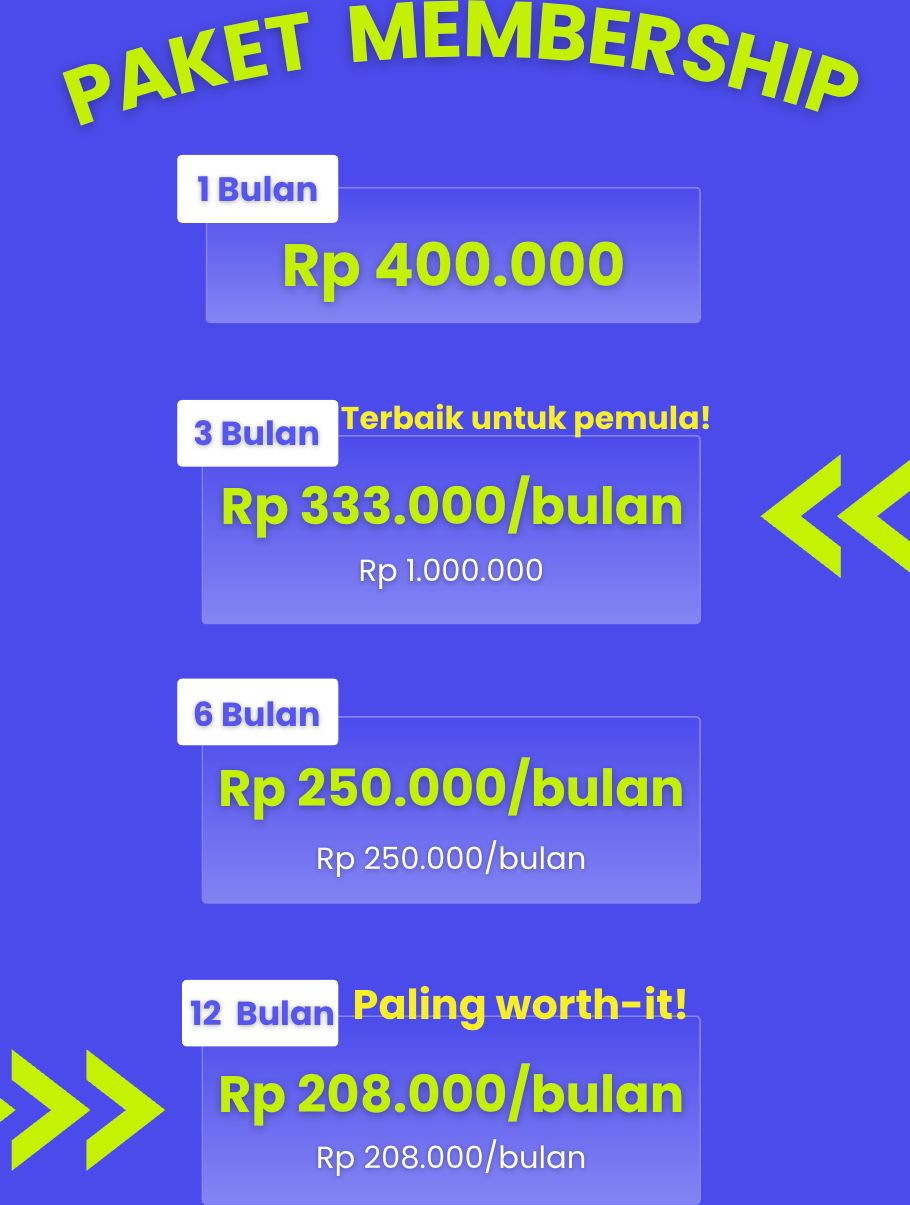
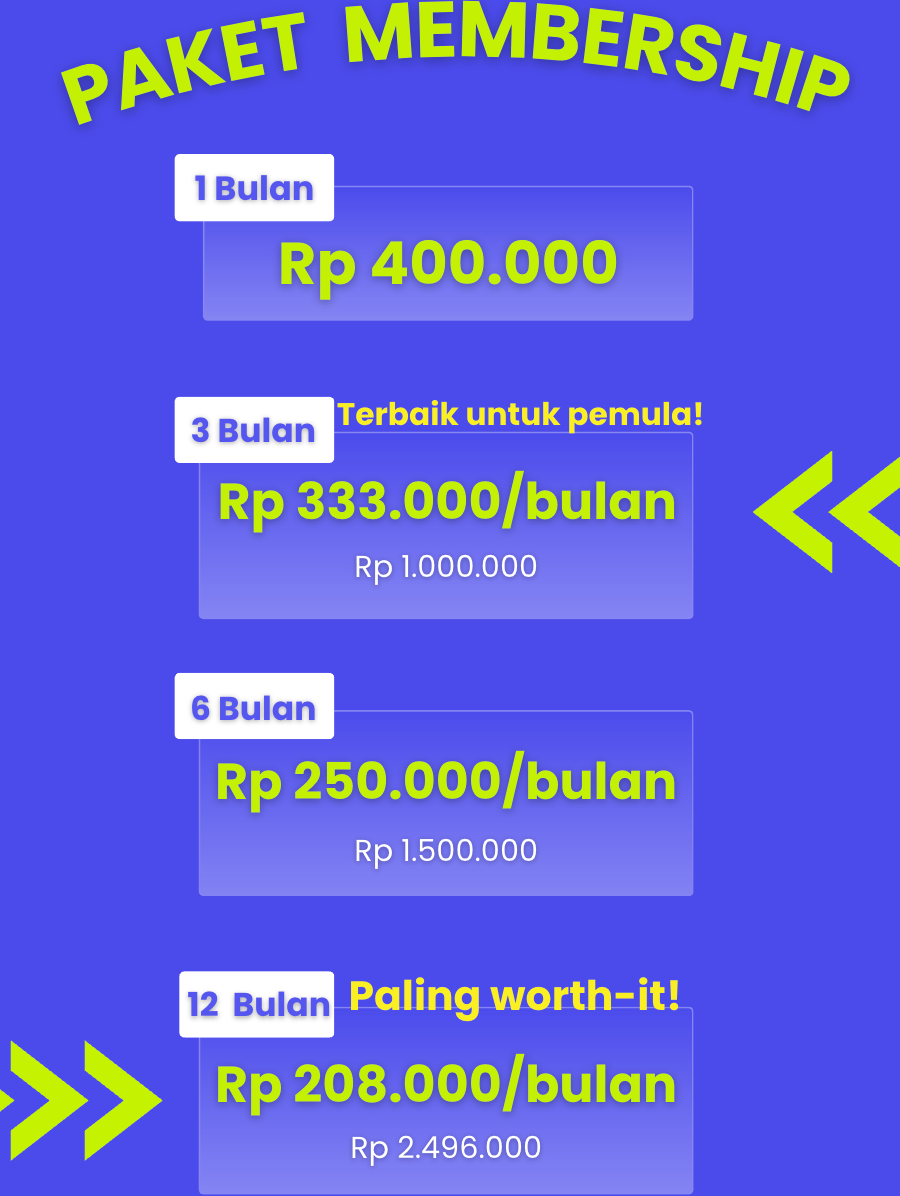
v36 hide original membership price

diff --git a/templates/home.html b/templates/home.html
@@ -41,7 +41,7 @@
             </div>
         </section>
 
-        <!-- Presale Section -->
+        <!-- Presale Section
         <section id="presale" class="feature-section" style="min-height: 75vh; padding-top: 0; padding-bottom: 0; text-align: center; color: white; position: relative; overflow: hidden; margin-bottom: 50px;">
             <img src="{% static 'images/presale.jpg' %}" alt="Pre-Sale" class="full-width-img" style="margin: 10px auto 20px; border: 2px solid #ffffff; box-shadow: 0 4px 8px #9393ee; max-width: 95%;">
             <div class="d-flex justify-content-center">
@@ -52,7 +52,7 @@
                 <span style="font-weight: bold;">Tanya-tanya gratis</span>
               </a>
             </div>
-        </section>
+        </section> -->
 
         <!-- Kenapa Mulai Gym Section -->
         <section id="kenapa-mulai" class="feature-section" style="min-height: 100vh; padding-top: 25px; padding-bottom: 0; text-align: center; color: white; position: relative; overflow: hidden;">
@@ -80,7 +80,18 @@
         </section>
 
         <!-- Membership Section -->
-        <section id="membership" class="section" style="margin-bottom: 80px;">
+        <section id="membership" class="feature-section" style="min-height: 65vh; padding-top: 0; padding-bottom: 0; text-align: center; color: white; position: relative; overflow: hidden; margin-bottom: 50px;">
+            <img src="{% static 'images/presale.jpg' %}" alt="Pre-Sale" class="full-width-img" style="margin: 10px auto 20px; border: 2px solid #ffffff; box-shadow: 0 4px 8px #9393ee; max-width: 95%;">
+            <div class="d-flex justify-content-center">
+              <a href="https://wa.me/+628996940908" class="btn py-1 px-4 rounded d-flex align-items-center justify-content-center" style="background-color: white; color: #4B4BEC; height: 32px; white-space: nowrap; overflow: hidden; font-size: 14px; width: auto;" target="_blank" rel="noopener noreferrer">
+                <div class="d-flex align-items-center justify-content-center me-2" style="background-color: #25D366; width: 22px; height: 22px; border-radius: 50%; flex-shrink: 0;">
+                    <i class="fab fa-whatsapp" style="color: white; font-size: 14px;"></i>
+                </div>
+                <span style="font-weight: bold;">Tanya-tanya gratis</span>
+              </a>
+            </div>
+        </section>
+        <!-- <section id="membership" class="section" style="margin-bottom: 80px;">
             <div class="container-fluid px-0">
                 <img src="{% static 'images/paket_membership.png' %}" alt="Paket Membership" class="img-fluid w-100" style="margin-top: -35px; padding-bottom: 30px;">
                 
@@ -100,7 +111,7 @@
                     </div>
                 </div>
             </div>
-        </section>
+        </section> -->
 
         <!-- Footer -->
         <footer id="kontak" class="bg-primary text-white py-3" style="margin-top: 50px; margin-bottom: 75px;">

diff --git a/templates/base.html b/templates/base.html
@@ -7,7 +7,7 @@
     <meta name="viewport" content="width=device-width, initial-scale=1">
     <link href="https://cdn.jsdelivr.net/npm/bootstrap@5.3.0/dist/css/bootstrap.min.css" rel="stylesheet">
     <link rel="stylesheet" href="https://cdnjs.cloudflare.com/ajax/libs/font-awesome/6.4.0/css/all.min.css">
-    <link rel="stylesheet" href="{% static 'css/style.css' %}?v=34">
+    <link rel="stylesheet" href="{% static 'css/style.css' %}?v=36">
     
     <link rel="icon" type="image/png" href="{% static 'favicons/favicon-96x96.png' %}" sizes="96x96" />
     <link rel="icon" type="image/svg+xml" href="{% static 'favicons/favicon.svg' %}" />
@@ -126,9 +126,9 @@
                 <li class="nav-item">
                     <a class="nav-link fw-bold" href="{{ request.scheme }}://{{ request.get_host }}/#home">• Home</a>
                 </li>
-                <li class="nav-item">
-                  <a class="nav-link fw-bold" href="{{ request.scheme }}://{{ request.get_host }}/#presale">• Promo !</a>
-              </li>
+                <!-- <li class="nav-item">
+                    <a class="nav-link fw-bold" href="{{ request.scheme }}://{{ request.get_host }}/#presale">• Promo !</a>
+                </li> -->
                 <li class="nav-item">
                     <a class="nav-link fw-bold" href="{{ request.scheme }}://{{ request.get_host }}/#kenapa-mulai">• Kenapa <img src="{% static 'images/mulai_white.png' %}" alt="Mulai" style="height: 1em; display: inline-block; vertical-align: middle;"> ?</a>
                 </li>
@@ -139,7 +139,7 @@
                     <a class="nav-link fw-bold" href="{{ request.scheme }}://{{ request.get_host }}/#fasilitas">• Fasilitas</a>
                 </li>
                 <li class="nav-item">
-                    <a class="nav-link fw-bold" href="{{ request.scheme }}://{{ request.get_host }}/#membership">• Membership</a>
+                    <a class="nav-link fw-bold" href="{{ request.scheme }}://{{ request.get_host }}/#membership">• Membership (PROMO!)</a>
                 </li>
                 <li class="nav-item">
                     <a class="nav-link fw-bold" href="{{ request.scheme }}://{{ request.get_host }}/#kontak">• Kontak</a>
